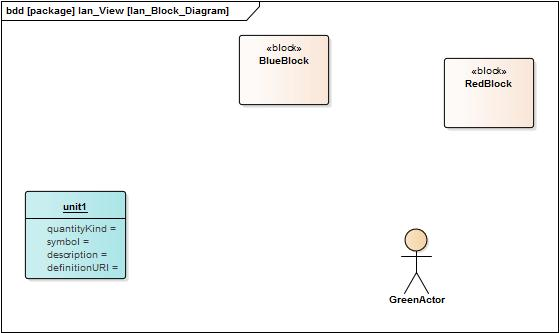
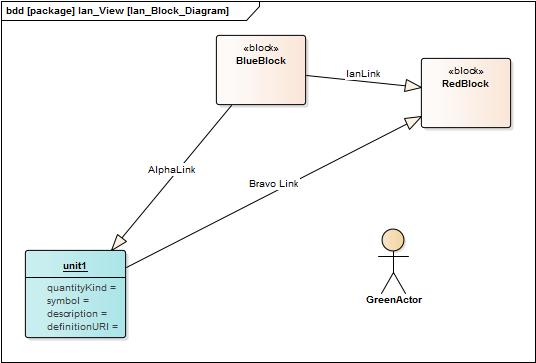
Added the connectors functionality

diff --git a/RestfulEA/Controllers/RESTEAController.cs b/RestfulEA/Controllers/RESTEAController.cs
@@ -200,8 +200,15 @@ namespace RestfulEA.Controllers
                 //**3B** - GET A DIAGRAM FROM THE REPO
                 if (TOI_Type == "otDiagram")
                 {
-                    List<string> ListOfElements = new List<string>();
+                    //Get the elements for for viewbag
+                    List<string> ListOfElementURLs = new List<string>();      //Use this for the webserivces URL (name|type|GUID)
                     List<string> ListOfElementsNames = new List<string>();
+
+                    //Get the links for the viewbag
+                    List<string> ListOfLinkURLs = new List<string>();        //Use this for the webserivces URL (name|type|GUID)
+                    List<string> ListOfLinksName = new List<string>();           
+
+
                     EA.Diagram DiagramToShow = (EA.Diagram)m_Repository.GetDiagramByGuid(TOI_GUID);
 
                     string DiagramURL = WholeURL + "/" + CleanURL[1] + "/" + CleanURL[2];
@@ -215,19 +222,44 @@ namespace RestfulEA.Controllers
                     ViewBag.CurrentURL += "/" + DiagramToShow.Name + "|" + TOI_Type + "|" + DiagramToShow.DiagramGUID;
                     ViewBag.DiagramName = DiagramToShow.Name;
 
+
+                    //A diagram is made of links and elements.
+                    //This next bit gets the links....
+                    for (short iDO = 0; iDO < DiagramToShow.DiagramLinks.Count; iDO++)
+                    {
+
+                        EA.DiagramLink MyLink = (EA.DiagramLink)DiagramToShow.DiagramLinks.GetAt(iDO);
+                        int ID = m_Repository.GetConnectorByID(MyLink.ConnectorID).ConnectorID;
+
+                        EA.Connector con;                    
+
+                        try //Try and get the connector object from the repository
+                        {
+                            con = (EA.Connector)m_Repository.GetConnectorByID(ID);
+                            ListOfLinkURLs.Add(con.Name + "|" + con.ObjectType + "|" + con.ConnectorGUID);
+                            ListOfLinksName.Add(con.Name);
+                        }
+                        catch{}
+
+
+                    }
+ 
+                    //..this next bit gets the diagram objects.
                     for (short iDO = 0; iDO < DiagramToShow.DiagramObjects.Count; iDO++)
                     {
                         EA.DiagramObject MyDO = (EA.DiagramObject)DiagramToShow.DiagramObjects.GetAt(iDO);
                         int ID = m_Repository.GetElementByID(MyDO.ElementID).ElementID;
                         EA.Element MyEle = (EA.Element)m_Repository.GetElementByID(ID);
-                        ListOfElements.Add(MyEle.Name + "|" + MyEle.ObjectType + "|" + MyEle.ElementGUID);
+                        ListOfElementURLs.Add(MyEle.Name + "|" + MyEle.ObjectType + "|" + MyEle.ElementGUID);
                         ListOfElementsNames.Add(MyEle.Name);
-
                         EA_Json_Diagram.ElementDictionary.Add(MyEle.Name, MyEle.Type);
 
                     }
-                    ViewBag.ListOfElements = ListOfElements;
+                    ViewBag.ListOfElements = ListOfElementURLs;
                     ViewBag.ListOfElementsNames = ListOfElementsNames;
+
+                    ViewBag.ListOfLinkURLs  = ListOfLinkURLs;
+                    ViewBag.ListOfLinkNames = ListOfLinksName;
 
                     if(header == null)
                     {return new HttpStatusCodeResult(406, "header string is null");}
@@ -246,7 +278,7 @@ namespace RestfulEA.Controllers
                         DiagramDictionary.Add("Big Preview", DiagramURL + "/BigPreview");
                         DiagramDictionary.Add("Small Preview", DiagramURL + "/SmallPreview");
 
-                        JObject JObjectToReturn = EA_JsonBuilder.JsonCreateDiagram(ProjectURL, ListOfElements, DiagramDictionary);
+                        JObject JObjectToReturn = EA_JsonBuilder.JsonCreateDiagram(ProjectURL, ListOfElementURLs, DiagramDictionary,ListOfLinkURLs);
                         return Content(JObjectToReturn.ToString(), "application/json");
 
                     }
@@ -264,10 +296,31 @@ namespace RestfulEA.Controllers
 
                     List<string> ListOfDiagramsNames = new List<string>();
                     List<string> ListOfDiagrams = new List<string>();
+                    List<string> ListOfConnectors = new List<string>();
+                    List<string> ListOfConnectorNames = new List<string>();
 
                     RestfulEA.Models.EA_TaggedValueStore myTVS = new Models.EA_TaggedValueStore();
                     myTVS.ParentElementName = MyEle.Name;
                     myTVS.ParentElementGUID = MyEle.ElementGUID;
+
+
+                    foreach (EA.Connector MyConnector in MyEle.Connectors)
+                    {
+
+                        string GUID = MyConnector.ConnectorGUID;
+                        string Name = MyConnector.Name;
+                        string Type = MyConnector.ObjectType.ToString();
+
+
+                        ListOfConnectorNames.Add(Name);
+                        ListOfConnectors.Add(Name + "|otConnector|" + GUID);
+
+
+                    
+                    }
+
+
+
 
                     //Add the tagged values in
                     for (short i = 0; i < MyEle.TaggedValues.Count; i++)
@@ -282,7 +335,6 @@ namespace RestfulEA.Controllers
                 
                    }
                     ViewBag.TG_Store = myTVS;
-
                     foreach (EA.Diagram DiagramLoop in MyEle.Diagrams)
                     {
                         ListOfDiagrams.Add(DiagramLoop.Name + "|" + DiagramLoop.ObjectType + "|" + DiagramLoop.DiagramGUID);
@@ -291,6 +343,10 @@ namespace RestfulEA.Controllers
                     ViewBag.TaggedSuffix = MyEle.Name + "|" + "otTaggedValue" + "|" + MyEle.ElementGUID; 
                     ViewBag.ListOfDiagramsNames = ListOfDiagramsNames;
                     ViewBag.ListOfDiagrams = ListOfDiagrams;
+
+
+                    ViewBag.ListOfConnectors = ListOfConnectors;
+                    ViewBag.ListOfConnectorNames = ListOfConnectorNames;
 
                     //determine if the user wants HTML OR JSON
                     //string header = Request.Headers.Get("Accept");
@@ -305,6 +361,20 @@ namespace RestfulEA.Controllers
                     ElementDictionary.Add("Status", MyEle.Status);
                     ElementDictionary.Add("Notes", MyEle.Notes);
                     ElementDictionary.Add("GUID", MyEle.ElementGUID);
+
+                    //Connectors
+                    foreach (EA.Connector MyCon in MyEle.Connectors)
+                    {
+                      //  ListOfConnectors.Add(MyCon.Name + "|otConnector|" + MyCon.ConnectorGUID);
+                     //   ListOfConnectorNames.Add(MyCon.Name);
+
+                        string ConnectorURL = MyCon.Name + "|otConnector|" + MyCon.ConnectorGUID;
+                     
+                        ElementDictionary.Add("Connector:" + MyCon.Name, uri + "\\" + ConnectorURL);
+
+                    }
+
+
 
 
                     if (header.Contains("json"))
@@ -348,17 +418,48 @@ namespace RestfulEA.Controllers
                     {
                         JObject JObjectToReturn = EA_JsonBuilder.JsonCreateTaggedValues(myTVS);
                         return Content(JObjectToReturn.ToString(), "application/json");
-
                     }
 
                 }
+
+                //**3E** - GET A CONNECTOR FROM THE REPO
+                if (TOI_Type == "otConnector")
+                {
+                    //  EA.Diagram DiagramToShow = (EA.Diagram)m_Repository.GetDiagramByGuid(TOI_GUID);
+                    Dictionary<string, string> ConnectorDictionary = new Dictionary<string, string>();
+                    EA.Connector MyLink = (EA.Connector)m_Repository.GetConnectorByGuid(TOI_GUID);
+                    ViewBag.TOI_Name = TOI_Name;
+                    ViewBag.TOI_Type = TOI_Type;
+                    ViewBag.TOI_GUID = TOI_GUID;
+                    ViewBag.Alias = MyLink.Alias;
+                    ViewBag.Colour = MyLink.Color;
+                    ViewBag.Direction = MyLink.Direction;
+                    ViewBag.Notes = MyLink.Notes;
+                    ViewBag.Type = MyLink.Type;
+                    ViewBag.ConnectorID = MyLink.ConnectorID;
+
+                    ConnectorDictionary.Add("Name", TOI_Name);
+                    ConnectorDictionary.Add("Type", TOI_Type);
+                    ConnectorDictionary.Add("GUID", TOI_GUID);
+                    ConnectorDictionary.Add("Alias", MyLink.Alias);
+                    ConnectorDictionary.Add("Colour", MyLink.Color.ToString());
+                    ConnectorDictionary.Add("Direction", MyLink.Notes);
+                    ConnectorDictionary.Add("Connector ID", MyLink.ConnectorID.ToString());
+            
+                    if (header.Contains("html"))
+                    { return View("EA_ShowConnector"); }
+
+                    if (header.Contains("json"))
+                    {                 
+                        JObject JObjectToReturn = EA_JsonBuilder.JsonCreateConnector(WholeURL + "/" + CleanURL[1],ConnectorDictionary);
+                        return Content(JObjectToReturn.ToString(), "application/json");
+                    }
+                }
+
                 return View("Error, no suitable MVC view was found");
             }
-
-
             return null;
         }
-
         
         public ActionResult OSLC_SmallPreview()
         {

diff --git a/RestfulEA/Models/EA_JsonBuilder.cs b/RestfulEA/Models/EA_JsonBuilder.cs
@@ -101,11 +101,13 @@ namespace RestfulEA.Models
         }
 
 
-        static public JObject JsonCreateDiagram(string WholeURL, List<string> listOfElements, Dictionary<string,string> DiagramDictionary)
+        static public JObject JsonCreateDiagram(string WholeURL, List<string> listOfElements, Dictionary<string,string> DiagramDictionary,List<string>ListOfLinks)
         {
             JObject TopObject = new JObject();
             JObject ElementsArrayHolder = new JObject();
             JArray ElementArray = new JArray();
+            JArray LinkArrary = new JArray();
+
 
             foreach (String S in listOfElements)
             {
@@ -113,6 +115,11 @@ namespace RestfulEA.Models
             }
             ElementsArrayHolder["Element Array"] = ElementArray;
 
+            foreach (String S in ListOfLinks)
+            {
+                LinkArrary.Add(WholeURL + "/" + S);
+            }
+            ElementsArrayHolder["Link Array"] = LinkArrary;
         
 
             foreach (KeyValuePair<string, string> entry in DiagramDictionary)
@@ -125,26 +132,44 @@ namespace RestfulEA.Models
 
         }
 
-        public static JObject JsonCreateElement(string BaseURI, Dictionary<string,string> ElementDictionary , EA_TaggedValueStore TaggedValueStore, List<string> listOfDiagrams)
+
+        //Creates the JObject which is used to create the JSON for an EA element
+        public static JObject JsonCreateElement(string BaseURI, 
+                                                Dictionary<string,string> ElementDictionary ,
+                                                EA_TaggedValueStore TaggedValueStore, 
+                                                List<string> listOfDiagrams)
         {
             JObject TopObject = new JObject();
             JObject DiagramsArrayHolder = new JObject();
             JArray DiagramArray = new JArray();
-
-
             foreach (KeyValuePair<string, string> entry in ElementDictionary)
             {
                 TopObject.Add(entry.Key, entry.Value);           
             }
-
-
-            //If we have more than one tagged value then put a link to show them.
+           //If we have more than one tagged value then put a link to show them.
             if(TaggedValueStore.TaggedDictionary.Count > 0)
             {
                 TopObject.Add("Tagged Values", BaseURI + "/" + TaggedValueStore.ParentElementName + "|otTaggedValue|" + TaggedValueStore.ParentElementGUID);
-            }
+            }    
             return TopObject;
         }
+ 
+
+        public static JObject JsonCreateConnector(string WholeURL, Dictionary<string, string> ConnectorDictionary)
+        {
+            JObject TopObject = new JObject();
+
+            TopObject.Add("Connector URL", WholeURL);
+
+            foreach (KeyValuePair<string, string> entry in ConnectorDictionary)
+            {
+                TopObject.Add(entry.Key, entry.Value);
+            }
+
+            return TopObject;
+
+        }
+
 
 
         internal static JObject JsonCreateTaggedValues(EA_TaggedValueStore myTVS)

diff --git a/RestfulEA/Models/EA_Diagram.cs b/RestfulEA/Models/EA_Diagram.cs
@@ -15,7 +15,7 @@ namespace RestfulEA.Models
         //Use this to store name and type of element
         public Dictionary<string, String> ElementDictionary = new Dictionary<string, string>();
 
-
+        public Dictionary<string, string> LinkDictionary = new Dictionary<string, string>();
 
 
     }
